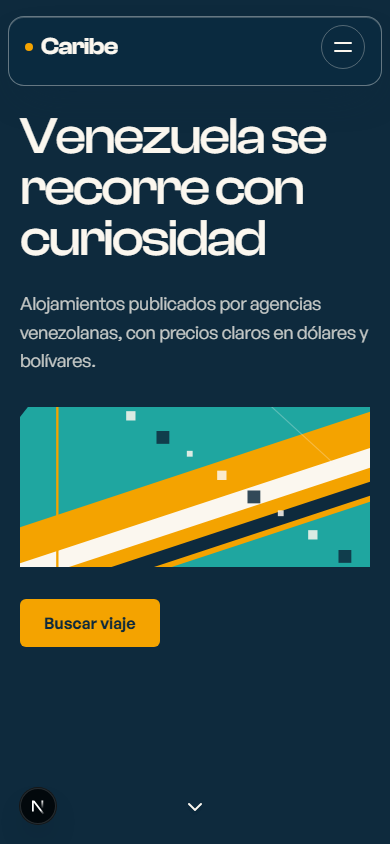
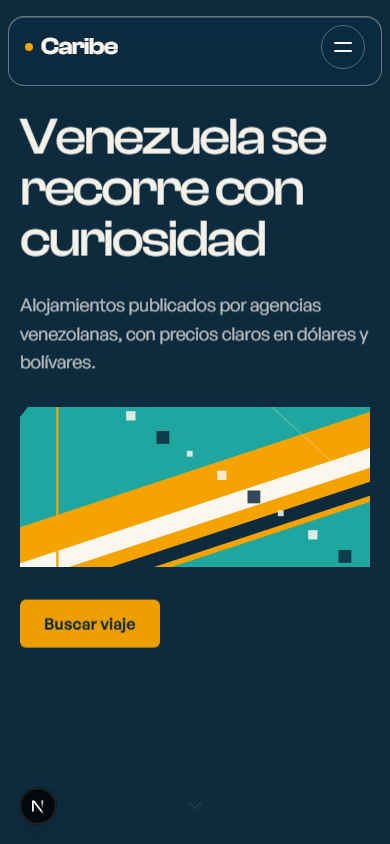
fix(web): animar la bajada entre secciones sin golpe
La flecha intercepta el ancla y desplaza la página con requestAnimationFrame durante 760ms con ease-in-out cúbica, cancelable con rueda, táctil o teclado; con movimiento reducido salta de inmediato. La pulsación baja 8px en 140ms y vuelve en 320ms.

Task: T-NAV-22

Task: T-NAV-11

diff --git a/apps/web/src/components/scroll-cue.tsx b/apps/web/src/components/scroll-cue.tsx
@@ -1,6 +1,6 @@
 "use client";
 
-import { useEffect, useRef, useState } from "react";
+import { useEffect, useRef, useState, type MouseEvent } from "react";
 
 interface ScrollCueProps {
   targetId: string;
@@ -9,15 +9,36 @@ interface ScrollCueProps {
   tone?: "on-dark" | "on-light";
 }
 
+const SCROLL_DURATION_MS = 760;
+const PRESS_DURATION_MS = 620;
+
+/** Curva ease-in-out cúbica: arranca y termina suave, sin golpe en los extremos. */
+function easeInOutCubic(progress: number): number {
+  return progress < 0.5
+    ? 4 * progress * progress * progress
+    : 1 - Math.pow(-2 * progress + 2, 3) / 2;
+}
+
+/** Destino teniendo en cuenta la cabecera flotante que puede tapar el encabezado. */
+function destinationTop(id: string): number | null {
+  const node = document.getElementById(id);
+  if (!node) return null;
+  const margin = Number.parseFloat(window.getComputedStyle(node).scrollMarginTop);
+  const offset = Number.isFinite(margin) ? margin : 0;
+  return Math.max(0, node.getBoundingClientRect().top + window.scrollY - offset);
+}
+
 /**
- * Gesto de bajada siempre dentro del viewport. Al pulsarlo, el control baja de
- * forma gradual y vuelve a subir, sin escalas ni impactos, para acompañar el
- * desplazamiento suave hacia la sección (o el salto inmediato con movimiento
- * reducido).
+ * Gesto de bajada siempre dentro del viewport. Intercepta el ancla para animar
+ * el desplazamiento fotograma a fotograma: `scroll-behavior: smooth` depende del
+ * navegador y Next puede anularlo durante una transición de ruta, mientras que
+ * aquí la curva y la duración están bajo nuestro control.
  */
 export function ScrollCue({ targetId, label, tone = "on-dark" }: ScrollCueProps) {
   const sentinel = useRef<HTMLSpanElement>(null);
   const timer = useRef<number | null>(null);
+  const frame = useRef<number | null>(null);
+  const removeListeners = useRef<Array<() => void>>([]);
   const [visible, setVisible] = useState(true);
   const [pressed, setPressed] = useState(false);
 
@@ -35,14 +56,68 @@ export function ScrollCue({ targetId, label, tone = "on-dark" }: ScrollCueProps)
   useEffect(
     () => () => {
       if (timer.current !== null) window.clearTimeout(timer.current);
+      if (frame.current !== null) window.cancelAnimationFrame(frame.current);
+      removeListeners.current.forEach((remove) => remove());
     },
     [],
   );
 
-  function markPressed() {
+  function stopScroll() {
+    if (frame.current !== null) {
+      window.cancelAnimationFrame(frame.current);
+      frame.current = null;
+    }
+    removeListeners.current.forEach((remove) => remove());
+    removeListeners.current = [];
+  }
+
+  function handleClick(event: MouseEvent<HTMLAnchorElement>) {
     setPressed(true);
     if (timer.current !== null) window.clearTimeout(timer.current);
-    timer.current = window.setTimeout(() => setPressed(false), 620);
+    timer.current = window.setTimeout(() => setPressed(false), PRESS_DURATION_MS);
+
+    // Modificadores y clic no principal conservan el comportamiento nativo.
+    if (event.metaKey || event.ctrlKey || event.shiftKey || event.altKey || event.button !== 0) {
+      return;
+    }
+    event.preventDefault();
+    stopScroll();
+
+    const destination = destinationTop(targetId);
+    if (destination === null) return;
+    const top: number = destination;
+    window.history.pushState(null, "", `#${targetId}`);
+
+    if (window.matchMedia("(prefers-reduced-motion: reduce)").matches) {
+      window.scrollTo({ top, behavior: "instant" });
+      return;
+    }
+
+    const start = window.scrollY;
+    if (Math.abs(top - start) < 2) return;
+    const startedAt = performance.now();
+
+    const cancelOnInput = () => stopScroll();
+    for (const name of ["wheel", "touchstart", "keydown"] as const) {
+      window.addEventListener(name, cancelOnInput, { passive: true });
+      removeListeners.current.push(() => window.removeEventListener(name, cancelOnInput));
+    }
+
+    function step(now: number) {
+      const progress = Math.min(1, (now - startedAt) / SCROLL_DURATION_MS);
+      window.scrollTo({
+        top: start + (top - start) * easeInOutCubic(progress),
+        behavior: "instant",
+      });
+      if (progress < 1) {
+        frame.current = window.requestAnimationFrame(step);
+      } else {
+        frame.current = null;
+        removeListeners.current.forEach((remove) => remove());
+        removeListeners.current = [];
+      }
+    }
+    frame.current = window.requestAnimationFrame(step);
   }
 
   const colors =
@@ -56,7 +131,7 @@ export function ScrollCue({ targetId, label, tone = "on-dark" }: ScrollCueProps)
         aria-label={label}
         data-visible={visible}
         data-pressed={pressed}
-        onClick={markPressed}
+        onClick={handleClick}
         className={`scroll-cue inline-flex size-12 min-h-11 min-w-11 items-center justify-center rounded-full focus-visible:outline-2 focus-visible:outline-offset-2 focus-visible:outline-amber ${colors}`}
       >
         <svg

diff --git a/apps/web/test/scroll-cue.test.ts b/apps/web/test/scroll-cue.test.ts
@@ -30,14 +30,27 @@ describe("gesto de bajada", () => {
     expect(cue).toContain("transition: none");
   });
 
-  it("baja suavemente al pulsarse, sin escalas ni ondas de impacto", () => {
+  it("baja rápido y vuelve despacio, sin escalas ni ondas de impacto", () => {
     const css = read("src/app/globals.css");
     const cue = css.slice(css.indexOf(".scroll-cue"), css.indexOf(".search-glass"));
     expect(cue).toContain("--cue-press-y: 0px");
     expect(cue).toContain('data-pressed="true"');
+    expect(cue).toContain("--cue-press-y: 8px");
     expect(cue).toContain("translate(-50%, calc(var(--cue-y) + var(--cue-press-y)))");
-    expect(cue).toContain("transform var(--duration-cue) var(--ease-caribe)");
+    expect(cue).toContain("transform var(--duration-return) var(--ease-out)");
+    expect(cue).toContain("transform var(--duration-press) var(--ease-out)");
     expect(cue).not.toContain("@keyframes cue-press");
     expect(cue).not.toContain("scale(");
+  });
+
+  it("interpola el desplazamiento y lo cancela ante una acción del usuario", () => {
+    const source = read("src/components/scroll-cue.tsx");
+    expect(source).toContain("const SCROLL_DURATION_MS = 760");
+    expect(source).toContain("function easeInOutCubic");
+    expect(source).toContain('behavior: "instant"');
+    expect(source).toContain('["wheel", "touchstart", "keydown"]');
+    expect(source).toContain("prefers-reduced-motion: reduce");
+    expect(source).toContain("scrollMarginTop");
+    expect(source).toContain("history.pushState");
   });
 });

diff --git a/apps/web/src/app/globals.css b/apps/web/src/app/globals.css
@@ -66,9 +66,12 @@
 /* Ritmo compartido de la portada: una sola curva y duraciones moderadas. */
 :root {
   --ease-caribe: cubic-bezier(0.2, 0.7, 0.2, 1);
+  --ease-out: cubic-bezier(0.23, 1, 0.32, 1);
   --duration-enter: 700ms;
   --duration-reveal: 650ms;
   --duration-cue: 400ms;
+  --duration-press: 140ms;
+  --duration-return: 320ms;
   --duration-chrome: 400ms;
 }
 
@@ -120,8 +123,8 @@ body {
   transform: translate(-50%, calc(var(--cue-y) + var(--cue-press-y)));
   transition:
     opacity var(--duration-cue) var(--ease-caribe),
-    transform var(--duration-cue) var(--ease-caribe),
-    background-color var(--duration-cue) var(--ease-caribe),
+    transform var(--duration-return) var(--ease-out),
+    background-color var(--duration-return) var(--ease-out),
     visibility var(--duration-cue) var(--ease-caribe);
 }
 
@@ -132,9 +135,15 @@ body {
   --cue-y: 0px;
 }
 
+/* Bajada rápida y subida pausada: temporización asimétrica, sin golpe. */
 .scroll-cue[data-pressed="true"] {
-  --cue-press-y: 6px;
-  background-color: color-mix(in srgb, currentColor 10%, transparent);
+  --cue-press-y: 8px;
+  background-color: color-mix(in srgb, currentColor 12%, transparent);
+  transition:
+    opacity var(--duration-cue) var(--ease-caribe),
+    transform var(--duration-press) var(--ease-out),
+    background-color var(--duration-press) var(--ease-out),
+    visibility var(--duration-cue) var(--ease-caribe);
 }
 
 .scroll-cue-icon {

diff --git a/openspec/changes/f1-navigation-refresh/verify.md b/openspec/changes/f1-navigation-refresh/verify.md
@@ -8,9 +8,9 @@
   `975d459` (T-NAV-12), `666e2e4` (T-NAV-5), `78dfd07` (T-NAV-13), `b3f205f` (T-NAV-6),
   `bfaf709` (T-NAV-7), `6c2cf49` (T-NAV-14), `bd43a8f` (T-NAV-15), `4649503` (T-NAV-16),
   `d8be0ce` (T-NAV-8), `e8de458` (T-NAV-9), `a4285ec` (T-NAV-10), `abb7b0d` (T-NAV-17),
-  `0dc11b4` (T-NAV-18) y el ajuste de T-NAV-19/20/21 (flecha con descenso suave, menú móvil apilado
-  y contenido ajustado al viewport). Los commits `b44ae72` y `9ac4623` actualizan la spec antes del
-  código.
+  `0dc11b4` (T-NAV-18), `e380293` (T-NAV-19/20/21: flecha con descenso suave, menú móvil apilado y
+  contenido ajustado al viewport) y T-NAV-22 (bajada interpolada entre secciones). Los commits
+  `b44ae72`, `9ac4623` y `321f562` actualizan la spec antes del código.
   `0bd9916` es el arreglo del lock de BullMQ acordado aparte: no cambia esta spec ni su comportamiento.
 - **Entorno:** web en `:3000` (`pnpm --filter @caribe/web dev`), API en `:3002`
   (`pnpm --filter @caribe/api dev`), PostgreSQL y Redis locales, datos de demostración sembrados y
@@ -79,7 +79,8 @@ final queda a criterio del dueño con las capturas adjuntas.
 | Cabecera estrecha | `verify:navigation` a 360x640: barra con margen lateral y «icono de hamburgesa accesible»; `header-menu-mobile.png`. |
 | Menú vertical | `verify:navigation`: «cabecera móvil con hamburgesa y 7 ítems apilados» comprueba `aria-expanded`, `flex-direction: column`, siete filas con `top` distinto y ancho mayor de 200px; icono de cruz en `globals.css`; `header-menu-mobile.png`. |
 | Borde de glass | El verificador de barra exige `border: 1px` y `box-shadow` con `inset`; `verify:contrast` en claro y oscuro. |
-| Pulsación de la flecha | `verify:navigation`: «flecha con descenso suave al pulsar, sin golpe» comprueba `--cue-press-y: 6px` al pulsar, ausencia de `--cue-scale` y de `::after` con onda, y transición de `transform`; con movimiento reducido «salto inmediato» y `--cue-press-y: 0px` con el fondo visible. `test/scroll-cue.test.ts` › «baja suavemente al pulsarse, sin escalas ni ondas de impacto»; `home-arrow-pressed-*.png`. |
+| Pulsación de la flecha | `verify:navigation`: «flecha con descenso suave al pulsar, sin golpe» comprueba `--cue-press-y: 8px` al pulsar en 140ms y vuelta en 320ms, ausencia de `--cue-scale` y de `::after` con onda, y transición de `transform`; con movimiento reducido `--cue-press-y: 0px` con el fondo visible. `test/scroll-cue.test.ts` › «baja rápido y vuelve despacio...»; `home-arrow-pressed-*.png`. |
+| Bajada gradual entre secciones | `verify:navigation`: «bajada interpolada en 21 posiciones hasta 616px» muestrea `scrollY` fotograma a fotograma tras pulsar; además «flecha al buscador», «flecha a destacados» y «flecha al cierre». `test/scroll-cue.test.ts` › «interpola el desplazamiento y lo cancela ante una acción del usuario». |
 | Hero sin solapamiento | `verify:navigation` a 390x844 y 360x640: «hero sin solapamiento y ancho útil respetado» comprueba que título y subtítulo empiezan bajo la barra, la CTA queda sobre la flecha, el hero no supera el viewport y el ancla compensa la cabecera. |
 | Secciones en pantalla baja | `verify:navigation` a 360x640 verifica los destinos de búsqueda, destacados y cierre; `globals.css` compacta espaciados y alturas con `@media (max-height: 700px)`. |
 | Flecha en móvil | `verify:navigation` a 360x640: «flecha de sección dentro del viewport» mide 48x48 y respeta `env(safe-area-inset-bottom)`. |
@@ -96,9 +97,9 @@ final queda a criterio del dueño con las capturas adjuntas.
 | --- | --- |
 | `pnpm lint` | Verde: 4 tareas, 0 errores. |
 | `pnpm typecheck` | Verde: 5 tareas, 0 errores. |
-| `pnpm test` | Verde en todos los paquetes; web 16 archivos y 95 pruebas, API en caché. |
+| `pnpm test` | Verde en todos los paquetes; web 16 archivos y 96 pruebas, API en caché. |
 | `node scripts/check-specs.mjs` | `OK: 8 specs válidas`. |
-| `pnpm --filter @caribe/web verify:navigation` | Verde: 63 comprobaciones, 14 rutas en `es`/`en`, menú móvil apilado, geometría del hero, flechas y reservas. |
+| `pnpm --filter @caribe/web verify:navigation` | Verde: 64 comprobaciones, 14 rutas en `es`/`en`, menú móvil apilado, geometría del hero, bajada interpolada, flechas y reservas. |
 | `pnpm --filter @caribe/web verify:contrast` | Verde: «texto visible con contraste AA en claro y oscuro (8 rutas x 2 esquemas)». |
 | `pnpm --filter @caribe/web capture:screenshots ...` | Verde; 50 PNG válidos en claro y oscuro. |
 
